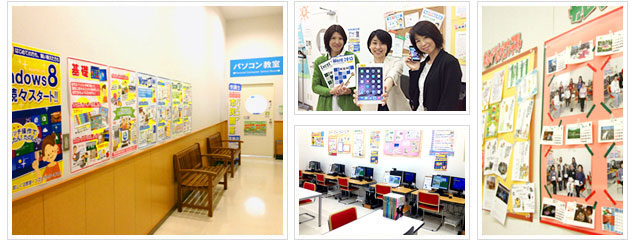
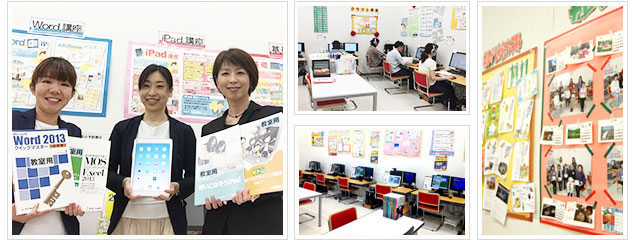
教室サイト更新

diff --git a/lib/index.php b/lib/index.php
@@ -158,7 +158,7 @@ if ($id == "1001111") {
 		<li><a href="/<?=$room[$id][dir]?>/about.php#point5">
 		<dl>
 			<dt><img src="../images/img-osusume04.png" width="125" height="90" alt="指導実績"></dt>
-			<dd><p>全国150教室 15年間で<br>54万人の指導実績！</p>
+			<dd><p>全国120教室 15年間で<br>54万人の指導実績！</p>
 				<div class="detail">詳しくはコチラ</div></dd>
 			</dl>
 			</a></li>
@@ -273,19 +273,19 @@ if ($id == "1001111") {
 		<div class="box_a clearfix">
 		<div class="room_info_lft">
 		<dl>
-			<dt><a href="../images/201706cp1.jpg" target="_blank"><img src="../images/201706cp1.jpg" width="180" alt="脳トレ講座新登場！パソコンで楽しく学べる800講座！"></a><a href="../images/201706cp2.jpg" target="_blank"><img src="../images/201706cp2.jpg" width="180" alt="履歴書に書けるパソコン資格を取ろう！資格合格率96.1％"></a></dt>
+			<dt><a href="../images/201707cp1.jpg" target="_blank"><img src="../images/201707cp1.jpg" width="180" alt="脳トレ講座新登場！「やってみたい！」が必ず見つかる800講座！"></a><a href="../images/201707cp2.jpg" target="_blank"><img src="../images/201707cp2.jpg" width="180" alt="9月は求人募集が増加！就職・転職前の2か月でパソコン資格を取ろう！資格合格率96.1％"></a></dt>
 			<dd><div class="inst_info"><a href="/<?=$room[$id][dir]?>/instructor.php">インストラクター情報</a></div></dd>
 		</dl>
 		</div>
 		<div class="room_info_rgt">
 		<dl>
-			<dt class="tk-kozuka-gothic-pr6n">脳トレ講座新登場！「入会キャンペーン」実施中！</dt>
+			<dt class="tk-kozuka-gothic-pr6n">資格を取るなら今！「入会キャンペーン」実施中！</dt>
 			<dd><p>「やってみたい」が「できた！」に変わる！幅広い年齢層の方々が楽しく学ばれています。</p>
-			<p>パソコン市民講座で学ばれる皆さんは、人それぞれに様々な目標を持って学んでいらっしゃいます。<br>きっかけは「やってみたい！」という気持ちから、まずは無料体験にお申し込みすることです！あなたの「やってみたい」を「できた！」に変えましょう！教室インストラクターがあなたに合わせたカリキュラムをご提案させていただきます。<br>パソコン市民講座では、6月17日（土）まで「入会キャンペーン」を実施中です！</p>
+			<p>パソコン市民講座で学ばれる皆さんは、人それぞれに様々な目標を持って学んでいらっしゃいます。<br>きっかけは「やってみたい！」という気持ちから、まずは無料体験にお申し込みすることです！あなたの「やってみたい」を「できた！」に変えましょう！教室インストラクターがあなたに合わせたカリキュラムをご提案させていただきます。<br>パソコン市民講座では、7月15日（土）まで「入会キャンペーン」を実施中です！</p>
 			<p>今なら受講スタート初月を<strong>最大で6,000円（税別）もお得</strong>に始めていただける、スタート応援価格にて受講していただけます。<br>さらに！<strong>入会金も半額！！</strong></p>
-			<p>話題のプログラミングを使った「脳トレ講座」も新登場！子供たちに習わせたい習い事で近年人気急上昇中の「プログラミング」ですが、おとなも楽しめる新たな講座としてパソコン市民講座ではご紹介いたします！<br>是非この機会に新しい学びを始めましょう！</p>
-			<p>また、これから迎える7月～8月は求人数が増える時期です。今のうちからワード・エクセル・パワーポイントなど、オフィスで活躍するパソコンスキルを身に付けておけば、転職・就職活動で有利に！<br>ビジネス実践講座や資格対策講座も、インストラクターが安心のサポート体制であなたをバックアップいたします！</p>
+			<p>これから迎える9月は求人数が増える時期です。就職・転職までの2か月の間にパソコンの資格を取得し、オフィスで活躍するパソコンスキルを身に付けておけば、転職・就職活動で有利に！<br>ビジネス実践講座や資格対策講座も、インストラクターが安心のサポート体制であなたをバックアップいたします！</p>
 			<p>「学割制度」もご用意していますので、学校でパソコンを使う必要がある学生の皆さんも、お得な学割料金で受講していただけます。</p>
+			<p>趣味で楽しめるパソコン講座・iPad/iPhone講座も充実！デジカメで撮影した写真と、ワードやパワーポイントを組み合わせれば、あなたのオリジナルのフォトブックや作品集も作れます！<br>また、「脳トレ」を目的にした新講座も好評開講中！楽しく学びながら「頭の体操」になる「脳トレおとなプログラミング講座」がスタートしています！<br>是非この機会に新しい学びを始めましょう！</p>
 			<p>パソコンだけじゃなくiPadやiPhoneといったタブレットやスマートフォンも使いこなせるようになる講座もご用意しています！</p>
 			<p>まずは、お気軽にお問い合わせください。インストラクター一同、皆様からのお電話、ご来校を心よりお待ち申し上げております。</p></dd>
 			<dt class="tk-kozuka-gothic-pr6n"><?=$room_info[00]?></dt>

diff --git a/koushien/instructor.php b/koushien/instructor.php
@@ -10,22 +10,16 @@ $ary = array(
 		"仕事や趣味、パソコンやタブレットの活用法は人それぞれだと思います。インターネットを始め、これらの機器たちは今や暮らしの中に欠かせないもの。そして多くの方が「便利に使いたい！」と思っていらっしゃるはず！<br />今は一人ではできないことも、私達と一緒に始めませんか？<br />きっと、もっとパソコンやタブレットが好きになりますよ☆"
 	),
 	array(
-		"梶崎 先生",
-		"ワード・画像編集",
-		"旅行のプランニング・韓国ドラマ・語学学習",
-		"今を去る事ウン十年前、私の職場にやってきたパソコンは、真っ黒い画面に英数字がずらっと並んだ代物で、一部の人間が難しい言葉を入力してやっと動く高度な事務機器でした。それがどうでしょう。今や家電並みのポジションまで降りてきてくれたのです。<br />せっかく今の時代に生きているのです。パソコンと一緒に進化していきませんか？<br />たくさん触って、たくさん間違えて、そして、たくさんびっくりしましょう。一歩足を踏み込めば、パソコンはおもちゃ箱のようにワクワクするものに見えてきますよ。"
-	),
-	array(
 		"小林 先生",
 		"エクセル・パワーポイント",
 		"バレーボール・カラオケ",
 		"恐々始めたパソコンですが、使っていくうちに便利でお得で楽しくてはまってしまい、皆さんにもこの気持ちをお伝えしたくてインストラクターになりました。<br />皆さんといっしょにパソコンで自分の視野や世界を広げていきたいと思っています。是非、いっしょに一歩ずつ楽しみながらパソコンのお勉強をしていきましょう。キラキラ光る何かが必ず見つかりますよ！<br />いつも元気な笑顔でお迎えします。どうぞよろしくお願いします。"
 	),
 	array(
-		"原 先生",
-		"エクセル・資格試験",
-		"ハイキング・漫画",
-		"パソコンを趣味で始めようとされている方、就転職の為に資格を取られたい方、お仕事の業務効率を上げたい方、パソコンを習われる目的は様々だと思います。<br />その目標を叶えるためのお手伝いが一緒にできればと思います。<br />ぜひ任せて下さい（*^ ^*)/"
+		"米田 先生",
+		"ワード・インターネット",
+		"写真撮影・DIY",
+		"「パソコンは仕事で使う難しいもの」というようなイメージを、お持ちの方も多いのではないでしょうか？でも実は、発想次第で仕事はもちろん、生活を楽しく充実させることがとても得意な機械なのです！その楽しさを、たくさんお伝えしたいと思います。一緒に発見していきましょう！"
 	)
 );
 ?>

diff --git a/lib/config.php b/lib/config.php
@@ -1922,8 +1922,8 @@ $room = array(
 		"ad1"		=> "兵庫県西宮市甲子園八番町1-100",
 		"ad2"		=> "イトーヨーカドー甲子園店 2階",
 		"ad3"		=> "鳴尾駅側エレベーター横 ",
-		"open"		=> "月　10:15-17:45<br />火　10:15-17:45<br />水　10:15-20:00<br />木　10:15-17:45<br />金　10:15-20:00<br />土　10:15-15:30<br />日　10:15-15:30<br />祝　10:15-15:30<br />※12:30-13:30は休講<br />※イトーヨーカドーがお休みの場合は、上記に限らず当教室も休講します。",
-		"open2"		=> "<tr><td>月　10:15-17:45</td><td>金　10:15-20:00</td></tr><tr><td>火　10:15-17:45</td><td>土　10:15-15:30</td></tr><tr><td>水　10:15-20:00</td><td>日　10:15-15:30</td></tr><tr><td>木　10:15-17:45</td><td>祝　10:15-15:30</td></tr>",
+		"open"		=> "月　10:15-17:45<br />火　10:15-17:45<br />水　10:15-20:00<br />木　10:15-15:30<br />金　10:15-20:00<br />土　10:15-12:15<br />日　10:15-15:30<br />祝　10:15-15:30<br />※12:30-13:30は休講<br />※イトーヨーカドーがお休みの場合は、上記に限らず当教室も休講します。",
+		"open2"		=> "<tr><td>月　10:15-17:45</td><td>金　10:15-20:00</td></tr><tr><td>火　10:15-17:45</td><td>土　10:15-12:15</td></tr><tr><td>水　10:15-20:00</td><td>日　10:15-15:30</td></tr><tr><td>木　10:15-15:30</td><td>祝　10:15-15:30</td></tr>",
 		"open3"		=> "※12:30-13:30は休講<br />※イトーヨーカドーがお休みの場合は、上記に限らず当教室も休講します。",
 		"close"		=> "0",
 		"access"	=> "阪神電鉄「鳴尾駅(普通のみ停車)」東口より徒歩7分",

diff --git a/narafa/instructor.php b/narafa/instructor.php
@@ -26,10 +26,17 @@ $ary = array(
 	),
 	array(
 		"源田 先生",
-		"",
+		"サーティファイ",
 		"ワード",
 		"スポーツ・音楽",
 		"パソコンを使い始めたきっかけは、仕事です。会社では、手作業でやってた計算が瞬時になされ、かなり効率があがりました。しかし、家では、ただの箱。これではもったいないと思い、パソコンで映画を見る、音楽を聞く、ネットショッピングをする、自作CDを作る・・・趣味がどんどん広がりました。<br />この楽しさをぜひ、お伝えしたく、また、日々進化するネットワークサービス、うまくSNSを利用して快適で楽しい生活を送れるよう、お手伝いしていければと思っています。"
+	),
+	array(
+		"東 先生",
+		"MOS・サーティファイ",
+		"ワード",
+		"旅行・手芸・カリグラフィ",
+		"Wordはビジネス文書のイメージが強いですが、使い方によっては自分の生活を楽しく彩ることができるツールです。私は、子どもたちの写真を使ってアルバムを作ったり、旅のしおりを作ったり、子どもたちが小さいときなどは、塗り絵やクラフトの型紙を作ったり、個人で楽しんできました。そんな、作品が一つずつ出来上がる楽しさを皆さんにお伝えしていきたいです。<br />声をかけやすい親しみやすいインストラクターを目指して、皆さんと一緒に成長していけたらと思っています！"
 	)
 );
 ?>

diff --git a/index.php b/index.php
@@ -14,7 +14,7 @@ include_once('lib/home/header.php');
 
 		<div class="p-top1__block1">
 			<ul>
-				<li><a href="/news/?p=100"><img src="/common/img/top/top1_slide4.jpg" width="690" height="370" alt="今なら最大6,000円OFF！入会キャンペーン実施中！" /></a></li>
+				<!--<li><a href="/news/?p=100"><img src="/common/img/top/top1_slide4.jpg" width="690" height="370" alt="今なら最大6,000円OFF！入会キャンペーン実施中！" /></a></li>-->
 				<li><a href="/shikaku/"><img src="/common/img/top/top1_slide1.jpg" width="690" height="370" alt="資格対策講座 即戦力の証明とスキルの自信につながる主要資格（MOS/サーティファイ）に対応！！ビジネスコースを見る" /></a></li>
 				<li><a href="/course/brain_training.php"><img src="/common/img/top/top1_slide3.png" width="690" height="370" alt="脳トレ おとなプログラミング講座 話題の講座が2017年6月スタート！詳しくはこちらから" /></a></li>
 				<li><a href="/gakuwari/"><img src="/common/img/top/top1_slide2.png" width="690" height="370" alt="学割 小学生から大学生まで対象拡大しました！" /></a></li>

diff --git a/koushien/config.php b/koushien/config.php
@@ -52,6 +52,14 @@ $ary = array(
 	),
 	array(
 		"",
+		"Yasuko.Nさん",
+		"自分が勉強したいことを自分のペースで学べます",
+		"転職の為",
+		"サーティファイワード2級合格！",
+		"今やビジネス必須のワードやエクセルですが、私の場合「ワードは初歩の初歩、エクセルは触ったこともない…」というお寒い状況でした。しかし、勉強を進めていくうちにサーティファイ エクセル3級とワード3級そしてエクセル2級を取得することができました！！今はワード2級取得目指して勉強中です。パソコン市民講座の良いところは自分が勉強したい事を自分のペースで学ぶことが出来る事だと思います。転職もし、日々パソコンを使った業務も自信を持って行っています。そして、エクセルとワードの勉強が一段落したら、パワーポイントもかじってみたいと思っています。"
+	),
+	array(
+		"",
 		"田代 進さん（50）",
 		"次はMOS合格が目標です！",
 		"パソコンを使いこなしたいと思ったから",

diff --git a/narafa/config.php b/narafa/config.php
@@ -41,14 +41,6 @@ $ary = array(
 		"パソコンが家に残っていた為",
 		"とりあえず、脳の活性化",
 		"一昨年末主人が亡くなり、パソコンが残りました。<br />主人は退職後、毎日のようにパソコンに触れていて、私はというと指一本触れていませんでした。今まで家事と仕事だけだったのですが、これからは自分自身の楽しみを持とうと思いました。<br />自分でも呆れる程よく忘れますが、何と一年以上続いています。それは、教室の雰囲気が大好き（先生達が素晴らしい）だからです。"
-	),
-	array(
-		"",
-		"懸田 弘子さん",
-		"パソコンやタブレットを使いこなしたい！",
-		"80才の手習いです",
-		"自分のしたい事ができるようになること",
-		"細川流盆石に入り何十年、展覧会の時、御案内状、写真を撮りCD・ラベルを作成したり、お礼状、お教室のパンフレット、会計報告等のお仕事がスムーズに出来ます様、頑張っています。これが生き甲斐を感じています。"
 	)
 
 );
